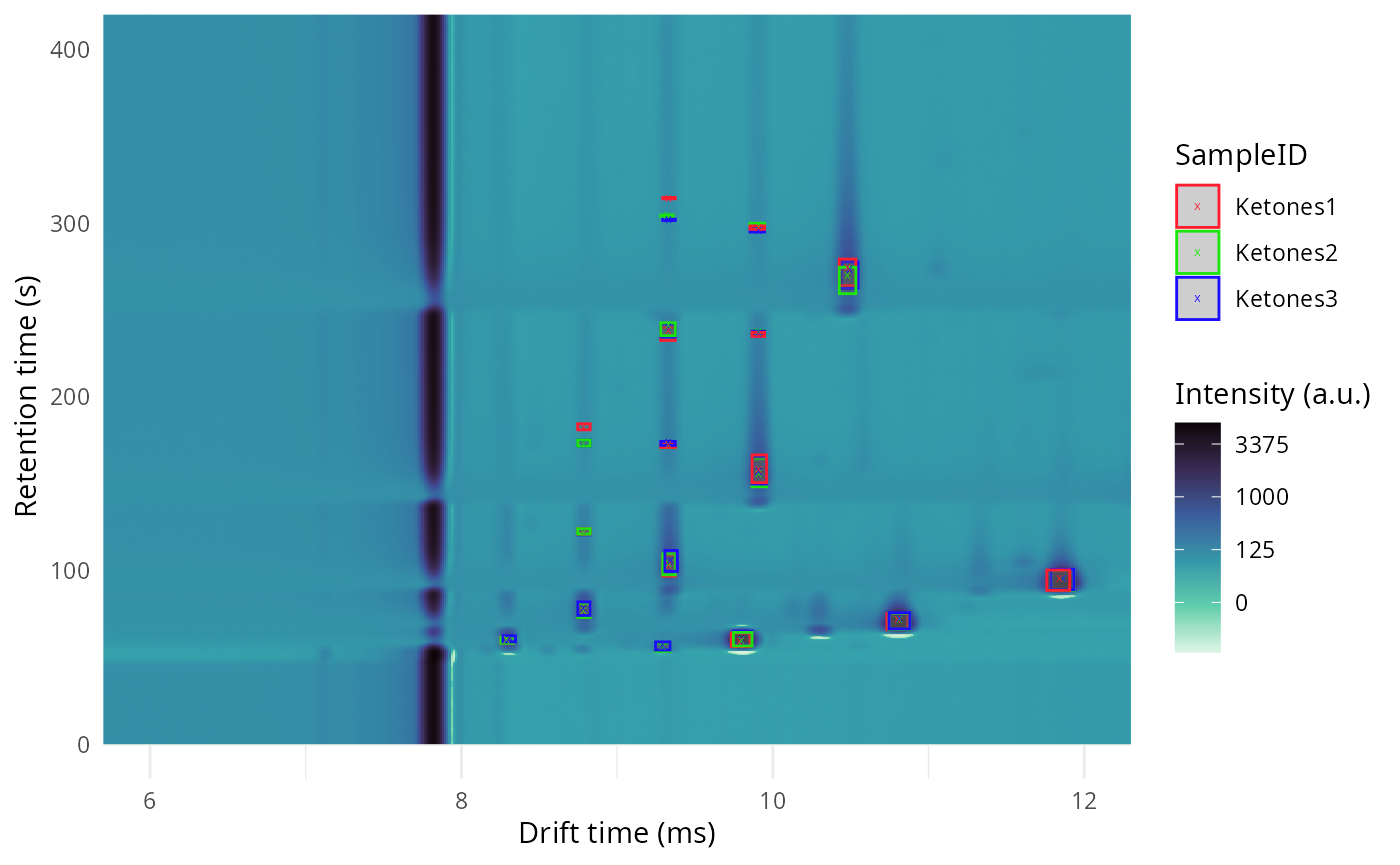
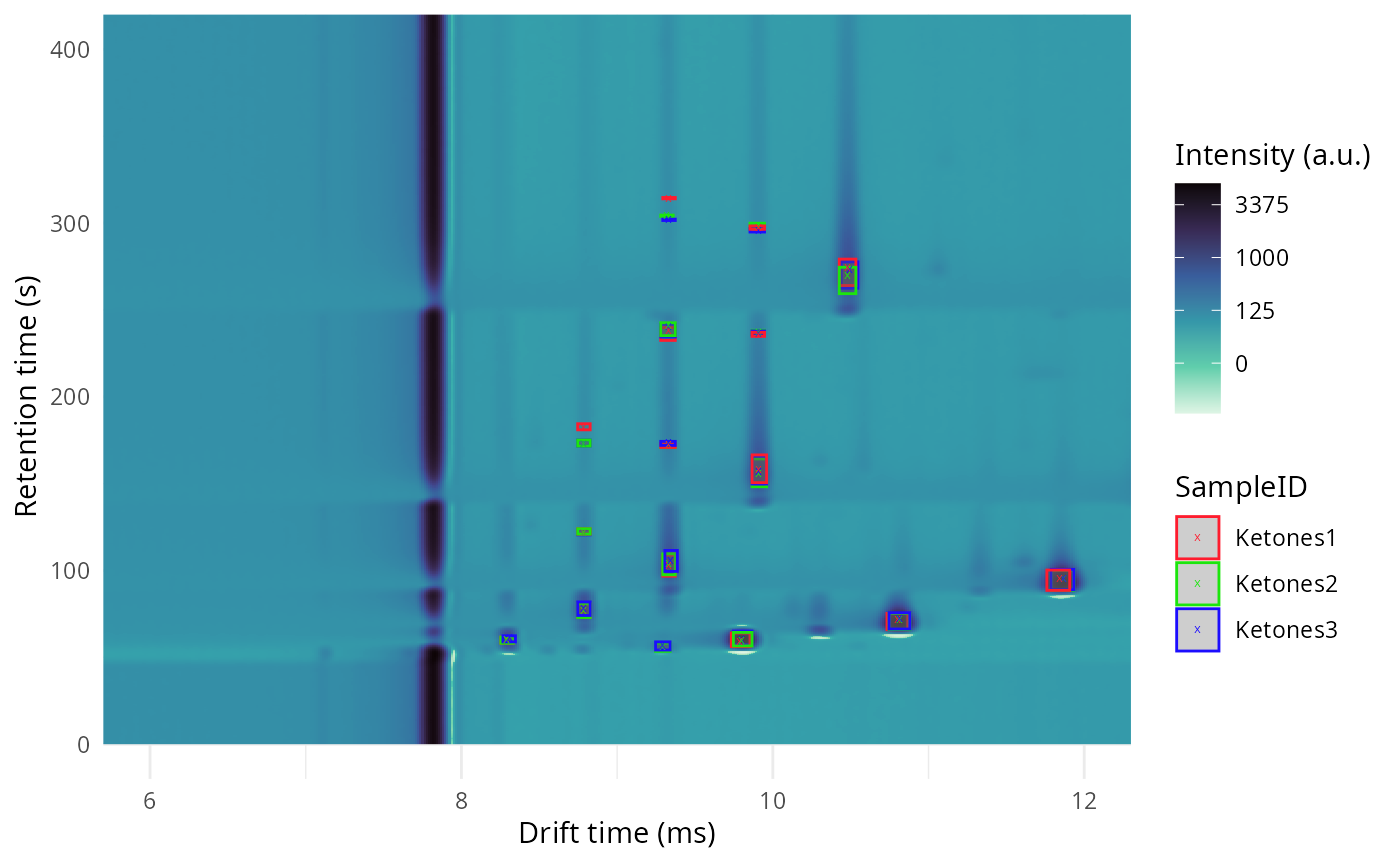
Built site for GCIMS@0.1.1: 72ea17d

Changed region(s): [[0.8293, 0.1561, 0.9829, 0.7803]]

diff --git a/articles/importing-custom-data-formats.html b/articles/importing-custom-data-formats.html
@@ -80,7 +80,7 @@
                         <h4 data-toc-skip class="author">Sergio
 Oller</h4>
             
-            <h4 data-toc-skip class="date">2026-07-05</h4>
+            <h4 data-toc-skip class="date">2026-07-09</h4>
       
 
       <div class="hidden name"><code>importing-custom-data-formats.Rmd</code></div>
@@ -289,7 +289,7 @@ function:</p>
 <h2 id="session-info">Session info<a class="anchor" aria-label="anchor" href="#session-info"></a>
 </h2>
 <div class="sourceCode" id="cb17"><pre class="sourceCode r"><code class="sourceCode r"><span id="cb17-1"><a href="#cb17-1" tabindex="-1"></a><span class="fu">sessionInfo</span>()</span>
-<span id="cb17-2"><a href="#cb17-2" tabindex="-1"></a>R version <span class="dv">4</span>.<span class="fl">6.0</span> (<span class="dv">2026-04-24</span>)</span>
+<span id="cb17-2"><a href="#cb17-2" tabindex="-1"></a>R version <span class="dv">4</span>.<span class="fl">6.1</span> (<span class="dv">2026-06-24</span>)</span>
 <span id="cb17-3"><a href="#cb17-3" tabindex="-1"></a>Platform<span class="sc">:</span> x86_64<span class="sc">-</span>pc<span class="sc">-</span>linux<span class="sc">-</span>gnu</span>
 <span id="cb17-4"><a href="#cb17-4" tabindex="-1"></a>Running under<span class="sc">:</span> Ubuntu <span class="dv">24</span>.<span class="fl">04.4</span> LTS</span>
 <span id="cb17-5"><a href="#cb17-5" tabindex="-1"></a></span>
@@ -316,25 +316,25 @@ function:</p>
 <span id="cb17-26"><a href="#cb17-26" tabindex="-1"></a></span>
 <span id="cb17-27"><a href="#cb17-27" tabindex="-1"></a>loaded via a <span class="fu">namespace</span> (and not attached)<span class="sc">:</span></span>
 <span id="cb17-28"><a href="#cb17-28" tabindex="-1"></a> [<span class="dv">1</span>] sass_0.<span class="fl">4.10</span>         generics_0.<span class="fl">1.4</span>      digest_0.<span class="fl">6.39</span>      </span>
-<span id="cb17-29"><a href="#cb17-29" tabindex="-1"></a> [<span class="dv">4</span>] magrittr_2.<span class="fl">0.5</span>      evaluate_1.<span class="fl">0.5</span>      grid_4.<span class="fl">6.0</span>         </span>
+<span id="cb17-29"><a href="#cb17-29" tabindex="-1"></a> [<span class="dv">4</span>] magrittr_2.<span class="fl">0.5</span>      evaluate_1.<span class="fl">0.5</span>      grid_4.<span class="fl">6.1</span>         </span>
 <span id="cb17-30"><a href="#cb17-30" tabindex="-1"></a> [<span class="dv">7</span>] RColorBrewer_1<span class="fl">.1</span><span class="dv">-3</span>  bookdown_0<span class="fl">.47</span>       fastmap_1.<span class="fl">2.0</span>      </span>
 <span id="cb17-31"><a href="#cb17-31" tabindex="-1"></a>[<span class="dv">10</span>] jsonlite_2.<span class="fl">0.0</span>      ProtGenerics_1.<span class="fl">44.0</span> BiocManager_1.<span class="fl">30.27</span></span>
 <span id="cb17-32"><a href="#cb17-32" tabindex="-1"></a>[<span class="dv">13</span>] purrr_1.<span class="fl">2.2</span>         viridisLite_0.<span class="fl">4.3</span>   scales_1.<span class="fl">4.0</span>       </span>
 <span id="cb17-33"><a href="#cb17-33" tabindex="-1"></a>[<span class="dv">16</span>] codetools_0<span class="fl">.2</span><span class="dv">-20</span>    textshaping_1.<span class="fl">0.5</span>   jquerylib_0.<span class="fl">1.4</span>    </span>
-<span id="cb17-34"><a href="#cb17-34" tabindex="-1"></a>[<span class="dv">19</span>] cli_3.<span class="fl">6.6</span>           rlang_1.<span class="fl">2.0</span>         Biobase_2.<span class="fl">72.0</span>     </span>
+<span id="cb17-34"><a href="#cb17-34" tabindex="-1"></a>[<span class="dv">19</span>] cli_3.<span class="fl">6.6</span>           rlang_1.<span class="fl">3.0</span>         Biobase_2.<span class="fl">72.0</span>     </span>
 <span id="cb17-35"><a href="#cb17-35" tabindex="-1"></a>[<span class="dv">22</span>] withr_3.<span class="fl">0.3</span>         cachem_1.<span class="fl">1.0</span>        yaml_2.<span class="fl">3.12</span>        </span>
-<span id="cb17-36"><a href="#cb17-36" tabindex="-1"></a>[<span class="dv">25</span>] otel_0.<span class="fl">2.0</span>          tools_4.<span class="fl">6.0</span>         parallel_4.<span class="fl">6.0</span>     </span>
+<span id="cb17-36"><a href="#cb17-36" tabindex="-1"></a>[<span class="dv">25</span>] otel_0.<span class="fl">2.0</span>          tools_4.<span class="fl">6.1</span>         parallel_4.<span class="fl">6.1</span>     </span>
 <span id="cb17-37"><a href="#cb17-37" tabindex="-1"></a>[<span class="dv">28</span>] BiocParallel_1.<span class="fl">46.0</span> dplyr_1.<span class="fl">2.1</span>         ggplot2_4.<span class="fl">0.3</span>      </span>
 <span id="cb17-38"><a href="#cb17-38" tabindex="-1"></a>[<span class="dv">31</span>] sgolay_1.<span class="fl">0.3</span>        BiocGenerics_0.<span class="fl">58.1</span> vctrs_0.<span class="fl">7.3</span>        </span>
-<span id="cb17-39"><a href="#cb17-39" tabindex="-1"></a>[<span class="dv">34</span>] R6_2.<span class="fl">6.1</span>            stats4_4.<span class="fl">6.0</span>        lifecycle_1.<span class="fl">0.5</span>    </span>
+<span id="cb17-39"><a href="#cb17-39" tabindex="-1"></a>[<span class="dv">34</span>] R6_2.<span class="fl">6.1</span>            stats4_4.<span class="fl">6.1</span>        lifecycle_1.<span class="fl">0.5</span>    </span>
 <span id="cb17-40"><a href="#cb17-40" tabindex="-1"></a>[<span class="dv">37</span>] S4Vectors_0.<span class="fl">50.1</span>    fs_2.<span class="fl">1.0</span>            htmlwidgets_1.<span class="fl">6.4</span>  </span>
 <span id="cb17-41"><a href="#cb17-41" tabindex="-1"></a>[<span class="dv">40</span>] MASS_7<span class="fl">.3</span><span class="dv">-65</span>         ragg_1.<span class="fl">5.2</span>          pkgconfig_2.<span class="fl">0.3</span>    </span>
-<span id="cb17-42"><a href="#cb17-42" tabindex="-1"></a>[<span class="dv">43</span>] desc_1.<span class="fl">4.3</span>          pkgdown_2.<span class="fl">2.0</span>       bslib_0.<span class="fl">11.0</span>       </span>
+<span id="cb17-42"><a href="#cb17-42" tabindex="-1"></a>[<span class="dv">43</span>] desc_1.<span class="fl">4.3</span>          pkgdown_2.<span class="fl">2.1</span>       bslib_0.<span class="fl">11.0</span>       </span>
 <span id="cb17-43"><a href="#cb17-43" tabindex="-1"></a>[<span class="dv">46</span>] pillar_1.<span class="fl">11.1</span>       gtable_0.<span class="fl">3.6</span>        glue_1.<span class="fl">8.1</span>         </span>
 <span id="cb17-44"><a href="#cb17-44" tabindex="-1"></a>[<span class="dv">49</span>] systemfonts_1.<span class="fl">3.2</span>   tidyselect_1.<span class="fl">2.1</span>    xfun_0<span class="fl">.59</span>          </span>
 <span id="cb17-45"><a href="#cb17-45" tabindex="-1"></a>[<span class="dv">52</span>] tibble_3.<span class="fl">3.1</span>        knitr_1<span class="fl">.51</span>          farver_2.<span class="fl">1.2</span>       </span>
 <span id="cb17-46"><a href="#cb17-46" tabindex="-1"></a>[<span class="dv">55</span>] htmltools_0.<span class="fl">5.9</span>     labeling_0.<span class="fl">4.3</span>      rmarkdown_2<span class="fl">.31</span>     </span>
-<span id="cb17-47"><a href="#cb17-47" tabindex="-1"></a>[<span class="dv">58</span>] signal_1<span class="fl">.8</span><span class="dv">-1</span>        compiler_4.<span class="fl">6.0</span>      S7_0.<span class="fl">2.2</span>           </span></code></pre></div>
+<span id="cb17-47"><a href="#cb17-47" tabindex="-1"></a>[<span class="dv">58</span>] signal_1<span class="fl">.8</span><span class="dv">-1</span>        compiler_4.<span class="fl">6.1</span>      S7_0.<span class="fl">2.2</span>           </span></code></pre></div>
 </div>
   </div>
 
@@ -353,7 +353,7 @@ function:</p>
 
 <div class="pkgdown">
   <p></p>
-<p>Site built with <a href="https://pkgdown.r-lib.org/" class="external-link">pkgdown</a> 2.2.0.</p>
+<p>Site built with <a href="https://pkgdown.r-lib.org/" class="external-link">pkgdown</a> 2.2.1.</p>
 </div>
 
       </footer>

diff --git a/articles/creating-a-workflow-step.html b/articles/creating-a-workflow-step.html
@@ -506,7 +506,7 @@ the dataset object.</p>
 </h2>
 <div class="sourceCode" id="cb28"><pre class="downlit sourceCode r">
 <code class="sourceCode R"><span><span class="fu"><a href="https://rdrr.io/r/utils/sessionInfo.html" class="external-link">sessionInfo</a></span><span class="op">(</span><span class="op">)</span></span>
-<span><span class="co">#&gt; R version 4.6.0 (2026-04-24)</span></span>
+<span><span class="co">#&gt; R version 4.6.1 (2026-06-24)</span></span>
 <span><span class="co">#&gt; Platform: x86_64-pc-linux-gnu</span></span>
 <span><span class="co">#&gt; Running under: Ubuntu 24.04.4 LTS</span></span>
 <span><span class="co">#&gt; </span></span>
@@ -533,25 +533,25 @@ the dataset object.</p>
 <span><span class="co">#&gt; </span></span>
 <span><span class="co">#&gt; loaded via a namespace (and not attached):</span></span>
 <span><span class="co">#&gt;  [1] sass_0.4.10         generics_0.1.4      digest_0.6.39      </span></span>
-<span><span class="co">#&gt;  [4] magrittr_2.0.5      evaluate_1.0.5      grid_4.6.0         </span></span>
+<span><span class="co">#&gt;  [4] magrittr_2.0.5      evaluate_1.0.5      grid_4.6.1         </span></span>
 <span><span class="co">#&gt;  [7] RColorBrewer_1.1-3  bookdown_0.47       fastmap_1.2.0      </span></span>
 <span><span class="co">#&gt; [10] jsonlite_2.0.0      ProtGenerics_1.44.0 BiocManager_1.30.27</span></span>
 <span><span class="co">#&gt; [13] purrr_1.2.2         viridisLite_0.4.3   scales_1.4.0       </span></span>
 <span><span class="co">#&gt; [16] codetools_0.2-20    textshaping_1.0.5   jquerylib_0.1.4    </span></span>
-<span><span class="co">#&gt; [19] cli_3.6.6           rlang_1.2.0         Biobase_2.72.0     </span></span>
+<span><span class="co">#&gt; [19] cli_3.6.6           rlang_1.3.0         Biobase_2.72.0     </span></span>
 <span><span class="co">#&gt; [22] withr_3.0.3         cachem_1.1.0        yaml_2.3.12        </span></span>
-<span><span class="co">#&gt; [25] otel_0.2.0          tools_4.6.0         parallel_4.6.0     </span></span>
+<span><span class="co">#&gt; [25] otel_0.2.0          tools_4.6.1         parallel_4.6.1     </span></span>
 <span><span class="co">#&gt; [28] BiocParallel_1.46.0 dplyr_1.2.1         sgolay_1.0.3       </span></span>
 <span><span class="co">#&gt; [31] BiocGenerics_0.58.1 curl_7.1.0          vctrs_0.7.3        </span></span>
-<span><span class="co">#&gt; [34] R6_2.6.1            stats4_4.6.0        lifecycle_1.0.5    </span></span>
+<span><span class="co">#&gt; [34] R6_2.6.1            stats4_4.6.1        lifecycle_1.0.5    </span></span>
 <span><span class="co">#&gt; [37] S4Vectors_0.50.1    fs_2.1.0            htmlwidgets_1.6.4  </span></span>
 <span><span class="co">#&gt; [40] MASS_7.3-65         ragg_1.5.2          pkgconfig_2.0.3    </span></span>
-<span><span class="co">#&gt; [43] desc_1.4.3          pkgdown_2.2.0       pillar_1.11.1      </span></span>
+<span><span class="co">#&gt; [43] desc_1.4.3          pkgdown_2.2.1       pillar_1.11.1      </span></span>
 <span><span class="co">#&gt; [46] bslib_0.11.0        gtable_0.3.6        glue_1.8.1         </span></span>
 <span><span class="co">#&gt; [49] systemfonts_1.3.2   xfun_0.59           tibble_3.3.1       </span></span>
 <span><span class="co">#&gt; [52] tidyselect_1.2.1    knitr_1.51          farver_2.1.2       </span></span>
 <span><span class="co">#&gt; [55] htmltools_0.5.9     labeling_0.4.3      rmarkdown_2.31     </span></span>
-<span><span class="co">#&gt; [58] signal_1.8-1        compiler_4.6.0      S7_0.2.2</span></span></code></pre></div>
+<span><span class="co">#&gt; [58] signal_1.8-1        compiler_4.6.1      S7_0.2.2</span></span></code></pre></div>
 </div>
   </div>
 
@@ -570,7 +570,7 @@ the dataset object.</p>
 
 <div class="pkgdown">
   <p></p>
-<p>Site built with <a href="https://pkgdown.r-lib.org/" class="external-link">pkgdown</a> 2.2.0.</p>
+<p>Site built with <a href="https://pkgdown.r-lib.org/" class="external-link">pkgdown</a> 2.2.1.</p>
 </div>
 
       </footer>

diff --git a/reference/plot_interactive.html b/reference/plot_interactive.html
@@ -88,7 +88,7 @@ ticks to <code>"auto"</code>, so the axis labels are updated when zooming.</p>
 <span class="r-in"><span>  <span class="fu">ggplot2</span><span class="fu">::</span><span class="fu"><a href="https://ggplot2.tidyverse.org/reference/geom_point.html" class="external-link">geom_point</a></span><span class="op">(</span><span class="fu">ggplot2</span><span class="fu">::</span><span class="fu"><a href="https://ggplot2.tidyverse.org/reference/aes.html" class="external-link">aes</a></span><span class="op">(</span>x <span class="op">=</span> <span class="va">x</span>, y <span class="op">=</span> <span class="va">y</span><span class="op">)</span><span class="op">)</span></span></span>
 <span class="r-in"><span><span class="fu">plot_interactive</span><span class="op">(</span><span class="va">plt</span><span class="op">)</span></span></span>
 <div id="htmlwidget-ac96cb3ee4656e2e9ec3" style="width:700px;height:432.632880098888px;" class="plotly html-widget"></div>
-<script type="application/json" data-for="htmlwidget-ac96cb3ee4656e2e9ec3">{"x":{"data":[{"x":[1,2],"y":[1,2],"text":["x: 1<br />y: 1","x: 2<br />y: 2"],"type":"scatter","mode":"markers","marker":{"autocolorscale":false,"color":"rgba(0,0,0,1)","opacity":1,"size":5.6692913385826778,"symbol":"circle","line":{"width":1.8897637795275593,"color":"rgba(0,0,0,1)"}},"hoveron":"points","showlegend":false,"xaxis":"x","yaxis":"y","hoverinfo":"text","frame":null}],"layout":{"margin":{"t":23.305936073059364,"r":7.3059360730593621,"b":37.260273972602747,"l":48.949771689497723},"plot_bgcolor":"rgba(235,235,235,1)","paper_bgcolor":"rgba(255,255,255,1)","font":{"color":"rgba(0,0,0,1)","family":"","size":14.611872146118724},"xaxis":{"domain":[0,1],"automargin":true,"type":"linear","autorange":false,"range":[0.94999999999999996,2.0499999999999998],"tickmode":"auto","ticktext":["1.00","1.25","1.50","1.75","2.00"],"tickvals":[1,1.25,1.5,1.75,2],"categoryorder":"array","categoryarray":["1.00","1.25","1.50","1.75","2.00"],"nticks":null,"ticks":"outside","tickcolor":"rgba(51,51,51,1)","ticklen":3.6529680365296811,"tickwidth":0.66417600664176002,"showticklabels":true,"tickfont":{"color":"rgba(77,77,77,1)","family":"","size":11.68949771689498},"tickangle":-0,"showline":false,"linecolor":null,"linewidth":0,"showgrid":true,"gridcolor":"rgba(255,255,255,1)","gridwidth":0.66417600664176002,"zeroline":false,"anchor":"y","title":{"text":"x","font":{"color":"rgba(0,0,0,1)","family":"","size":14.611872146118724}},"hoverformat":".2f"},"yaxis":{"domain":[0,1],"automargin":true,"type":"linear","autorange":false,"range":[0.94999999999999996,2.0499999999999998],"tickmode":"auto","ticktext":["1.00","1.25","1.50","1.75","2.00"],"tickvals":[1,1.25,1.5,1.75,2],"categoryorder":"array","categoryarray":["1.00","1.25","1.50","1.75","2.00"],"nticks":null,"ticks":"outside","tickcolor":"rgba(51,51,51,1)","ticklen":3.6529680365296811,"tickwidth":0.66417600664176002,"showticklabels":true,"tickfont":{"color":"rgba(77,77,77,1)","family":"","size":11.68949771689498},"tickangle":-0,"showline":false,"linecolor":null,"linewidth":0,"showgrid":true,"gridcolor":"rgba(255,255,255,1)","gridwidth":0.66417600664176002,"zeroline":false,"anchor":"x","title":{"text":"y","font":{"color":"rgba(0,0,0,1)","family":"","size":14.611872146118724}},"hoverformat":".2f"},"shapes":[],"showlegend":false,"legend":{"bgcolor":"rgba(255,255,255,1)","bordercolor":"transparent","borderwidth":1.8897637795275593,"font":{"color":"rgba(0,0,0,1)","family":"","size":11.68949771689498}},"hovermode":"closest","barmode":"relative"},"config":{"doubleClick":"reset","modeBarButtonsToAdd":["hoverclosest","hovercompare"],"showSendToCloud":false},"source":"A","attrs":{"2dd753016129":{"x":{},"y":{},"type":"scatter"}},"cur_data":"2dd753016129","visdat":{"2dd753016129":["function (y) ","x"]},"highlight":{"on":"plotly_click","persistent":false,"dynamic":false,"selectize":false,"opacityDim":0.20000000000000001,"selected":{"opacity":1},"debounce":0},"shinyEvents":["plotly_hover","plotly_click","plotly_selected","plotly_relayout","plotly_brushed","plotly_brushing","plotly_clickannotation","plotly_doubleclick","plotly_deselect","plotly_afterplot","plotly_sunburstclick"],"base_url":"https://plot.ly"},"evals":[],"jsHooks":[]}</script></code></pre></div>
+<script type="application/json" data-for="htmlwidget-ac96cb3ee4656e2e9ec3">{"x":{"data":[{"x":[1,2],"y":[1,2],"text":["x: 1<br />y: 1","x: 2<br />y: 2"],"type":"scatter","mode":"markers","marker":{"autocolorscale":false,"color":"rgba(0,0,0,1)","opacity":1,"size":5.6692913385826778,"symbol":"circle","line":{"width":1.8897637795275593,"color":"rgba(0,0,0,1)"}},"hoveron":"points","showlegend":false,"xaxis":"x","yaxis":"y","hoverinfo":"text","frame":null}],"layout":{"margin":{"t":23.305936073059364,"r":7.3059360730593621,"b":37.260273972602747,"l":48.949771689497723},"plot_bgcolor":"rgba(235,235,235,1)","paper_bgcolor":"rgba(255,255,255,1)","font":{"color":"rgba(0,0,0,1)","family":"","size":14.611872146118724},"xaxis":{"domain":[0,1],"automargin":true,"type":"linear","autorange":false,"range":[0.94999999999999996,2.0499999999999998],"tickmode":"auto","ticktext":["1.00","1.25","1.50","1.75","2.00"],"tickvals":[1,1.25,1.5,1.75,2],"categoryorder":"array","categoryarray":["1.00","1.25","1.50","1.75","2.00"],"nticks":null,"ticks":"outside","tickcolor":"rgba(51,51,51,1)","ticklen":3.6529680365296811,"tickwidth":0.66417600664176002,"showticklabels":true,"tickfont":{"color":"rgba(77,77,77,1)","family":"","size":11.68949771689498},"tickangle":-0,"showline":false,"linecolor":null,"linewidth":0,"showgrid":true,"gridcolor":"rgba(255,255,255,1)","gridwidth":0.66417600664176002,"zeroline":false,"anchor":"y","title":{"text":"x","font":{"color":"rgba(0,0,0,1)","family":"","size":14.611872146118724}},"hoverformat":".2f"},"yaxis":{"domain":[0,1],"automargin":true,"type":"linear","autorange":false,"range":[0.94999999999999996,2.0499999999999998],"tickmode":"auto","ticktext":["1.00","1.25","1.50","1.75","2.00"],"tickvals":[1,1.25,1.5,1.75,2],"categoryorder":"array","categoryarray":["1.00","1.25","1.50","1.75","2.00"],"nticks":null,"ticks":"outside","tickcolor":"rgba(51,51,51,1)","ticklen":3.6529680365296811,"tickwidth":0.66417600664176002,"showticklabels":true,"tickfont":{"color":"rgba(77,77,77,1)","family":"","size":11.68949771689498},"tickangle":-0,"showline":false,"linecolor":null,"linewidth":0,"showgrid":true,"gridcolor":"rgba(255,255,255,1)","gridwidth":0.66417600664176002,"zeroline":false,"anchor":"x","title":{"text":"y","font":{"color":"rgba(0,0,0,1)","family":"","size":14.611872146118724}},"hoverformat":".2f"},"shapes":[],"showlegend":false,"legend":{"bgcolor":"rgba(255,255,255,1)","bordercolor":"transparent","borderwidth":1.8897637795275593,"font":{"color":"rgba(0,0,0,1)","family":"","size":11.68949771689498}},"hovermode":"closest","barmode":"relative"},"config":{"doubleClick":"reset","modeBarButtonsToAdd":["hoverclosest","hovercompare"],"showSendToCloud":false},"source":"A","attrs":{"286744390948":{"x":{},"y":{},"type":"scatter"}},"cur_data":"286744390948","visdat":{"286744390948":["function (y) ","x"]},"highlight":{"on":"plotly_click","persistent":false,"dynamic":false,"selectize":false,"opacityDim":0.20000000000000001,"selected":{"opacity":1},"debounce":0},"shinyEvents":["plotly_hover","plotly_click","plotly_selected","plotly_relayout","plotly_brushed","plotly_brushing","plotly_clickannotation","plotly_doubleclick","plotly_deselect","plotly_afterplot","plotly_sunburstclick"],"base_url":"https://plot.ly"},"evals":[],"jsHooks":[]}</script></code></pre></div>
     </div>
   </div>
   <div class="col-md-3 hidden-xs hidden-sm" id="pkgdown-sidebar">
@@ -102,7 +102,7 @@ ticks to <code>"auto"</code>, so the axis labels are updated when zooming.</p>
 </div>
 
 <div class="pkgdown">
-  <p></p><p>Site built with <a href="https://pkgdown.r-lib.org/" class="external-link">pkgdown</a> 2.2.0.</p>
+  <p></p><p>Site built with <a href="https://pkgdown.r-lib.org/" class="external-link">pkgdown</a> 2.2.1.</p>
 </div>
 
       </footer></div>

diff --git a/reference/realize.html b/reference/realize.html
@@ -107,7 +107,7 @@ on the <code>object</code>.</p></dd>
 <span class="r-in"><span><span class="fu"><a href="https://rdrr.io/r/base/print.html" class="external-link">print</a></span><span class="op">(</span><span class="va">dataset</span><span class="op">)</span></span></span>
 <span class="r-out co"><span class="r-pr">#&gt;</span> A GCIMSDataset:</span>
 <span class="r-out co"><span class="r-pr">#&gt;</span> - With 1 samples</span>
-<span class="r-out co"><span class="r-pr">#&gt;</span> - Stored on disk (at /tmp/RtmpLHyod4/GCIMSDataset_tempdir_2dd741a656e5/setSampleNamesAsDescription_73f1f13c6c84dc08e93787b4ef62110f)</span>
+<span class="r-out co"><span class="r-pr">#&gt;</span> - Stored on disk (at /tmp/RtmpGHh1af/GCIMSDataset_tempdir_28672d468a1f/setSampleNamesAsDescription_73f1f13c6c84dc08e93787b4ef62110f)</span>
 <span class="r-out co"><span class="r-pr">#&gt;</span> - No phenotypes</span>
 <span class="r-out co"><span class="r-pr">#&gt;</span> - History:</span>
 <span class="r-out co"><span class="r-pr">#&gt;</span>   - read_sample:</span>
@@ -130,7 +130,7 @@ on the <code>object</code>.</p></dd>
 </div>
 
 <div class="pkgdown">
-  <p></p><p>Site built with <a href="https://pkgdown.r-lib.org/" class="external-link">pkgdown</a> 2.2.0.</p>
+  <p></p><p>Site built with <a href="https://pkgdown.r-lib.org/" class="external-link">pkgdown</a> 2.2.1.</p>
 </div>
 
       </footer></div>

diff --git a/404.html b/404.html
@@ -100,7 +100,7 @@ Content not found. Please use links in the navbar.
 
 <div class="pkgdown">
   <p></p>
-<p>Site built with <a href="https://pkgdown.r-lib.org/" class="external-link">pkgdown</a> 2.2.0.</p>
+<p>Site built with <a href="https://pkgdown.r-lib.org/" class="external-link">pkgdown</a> 2.2.1.</p>
 </div>
 
       </footer>

diff --git a/LICENSE-text.html b/LICENSE-text.html
@@ -75,7 +75,7 @@ COPYRIGHT HOLDER: Institute for Bioengineering of Catalonia
 </div>
 
 <div class="pkgdown">
-  <p></p><p>Site built with <a href="https://pkgdown.r-lib.org/" class="external-link">pkgdown</a> 2.2.0.</p>
+  <p></p><p>Site built with <a href="https://pkgdown.r-lib.org/" class="external-link">pkgdown</a> 2.2.1.</p>
 </div>
 
       </footer></div>

diff --git a/LICENSE.html b/LICENSE.html
@@ -79,7 +79,7 @@
 </div>
 
 <div class="pkgdown">
-  <p></p><p>Site built with <a href="https://pkgdown.r-lib.org/" class="external-link">pkgdown</a> 2.2.0.</p>
+  <p></p><p>Site built with <a href="https://pkgdown.r-lib.org/" class="external-link">pkgdown</a> 2.2.1.</p>
 </div>
 
       </footer></div>

diff --git a/articles/index.html b/articles/index.html
@@ -76,7 +76,7 @@
 </div>
 
 <div class="pkgdown">
-  <p></p><p>Site built with <a href="https://pkgdown.r-lib.org/" class="external-link">pkgdown</a> 2.2.0.</p>
+  <p></p><p>Site built with <a href="https://pkgdown.r-lib.org/" class="external-link">pkgdown</a> 2.2.1.</p>
 </div>
 
       </footer></div>

diff --git a/authors.html b/authors.html
@@ -121,7 +121,7 @@ R package version 0.1.1.
 </div>
 
 <div class="pkgdown">
-  <p></p><p>Site built with <a href="https://pkgdown.r-lib.org/" class="external-link">pkgdown</a> 2.2.0.</p>
+  <p></p><p>Site built with <a href="https://pkgdown.r-lib.org/" class="external-link">pkgdown</a> 2.2.1.</p>
 </div>
 
       </footer></div>

diff --git a/index.html b/index.html
@@ -152,7 +152,7 @@
 
 <div class="pkgdown">
   <p></p>
-<p>Site built with <a href="https://pkgdown.r-lib.org/" class="external-link">pkgdown</a> 2.2.0.</p>
+<p>Site built with <a href="https://pkgdown.r-lib.org/" class="external-link">pkgdown</a> 2.2.1.</p>
 </div>
 
       </footer>

diff --git a/news/index.html b/news/index.html
@@ -87,7 +87,7 @@
 </div>
 
 <div class="pkgdown">
-  <p></p><p>Site built with <a href="https://pkgdown.r-lib.org/" class="external-link">pkgdown</a> 2.2.0.</p>
+  <p></p><p>Site built with <a href="https://pkgdown.r-lib.org/" class="external-link">pkgdown</a> 2.2.1.</p>
 </div>
 
       </footer></div>

diff --git a/reference/DelayedDatasetBase.html b/reference/DelayedDatasetBase.html
@@ -274,7 +274,7 @@ returns a more optimized version of it.</p></dd>
 </div>
 
 <div class="pkgdown">
-  <p></p><p>Site built with <a href="https://pkgdown.r-lib.org/" class="external-link">pkgdown</a> 2.2.0.</p>
+  <p></p><p>Site built with <a href="https://pkgdown.r-lib.org/" class="external-link">pkgdown</a> 2.2.1.</p>
 </div>
 
       </footer></div>